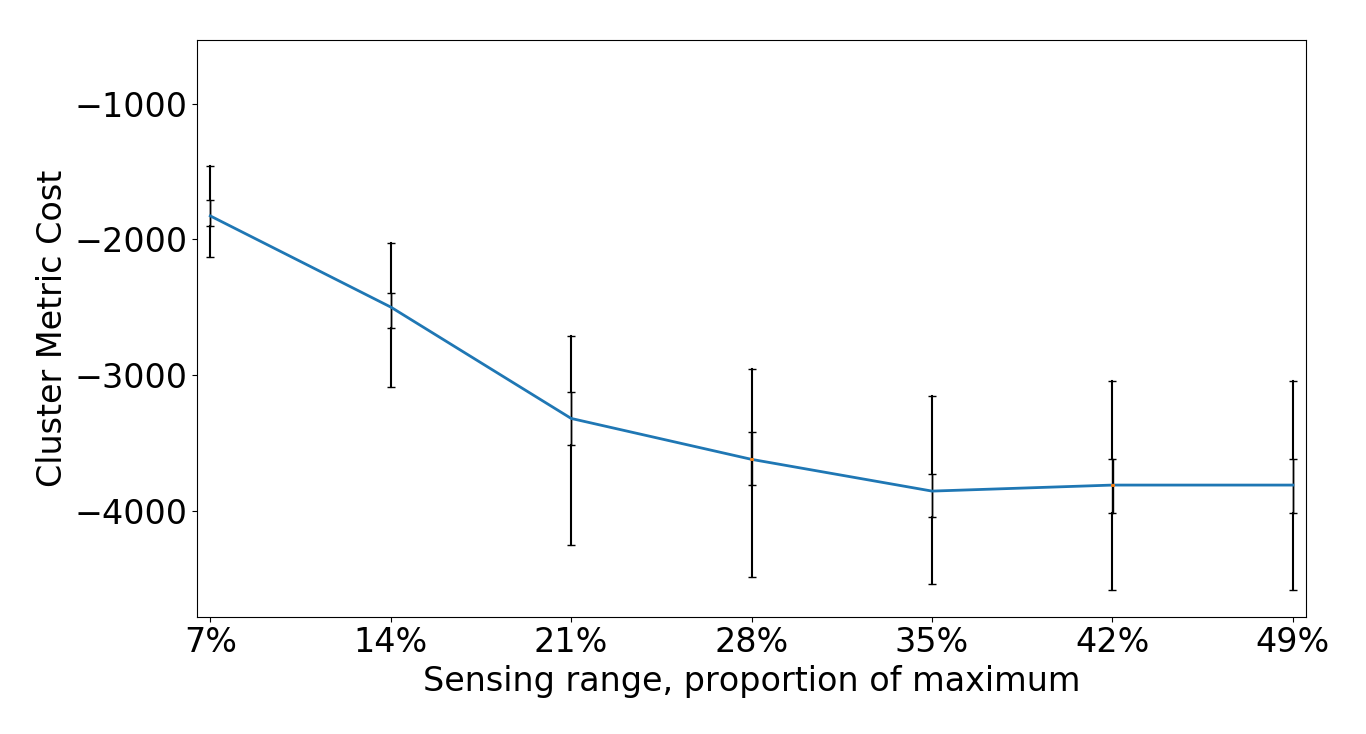
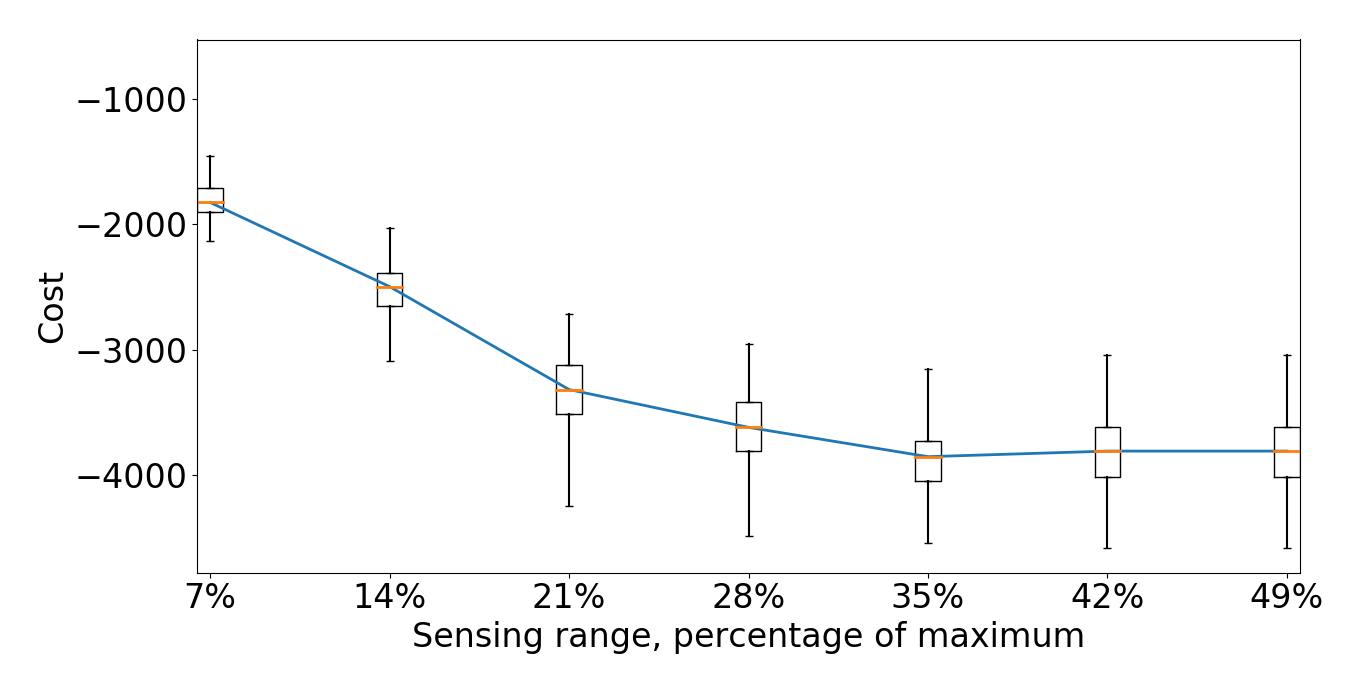
Editing and tweaking
- fix cost equations
 - fix typos
 - improve axes labels and figure placement

diff --git a/segregation_without_computation.tex b/segregation_without_computation.tex
@@ -55,8 +55,8 @@
   that robot is present, whether or not it belongs to the same group as the
   sensing robot; (ii) The robots move according to a differential drive model;
   and (iii) The structure of the control system is purely reactive, and it maps
-  directly the sensor readings to the wheel speeds with no computation beyond a
-  simple `if' statement. We present a thorough analysis of the parameter space
+  directly the sensor readings to the wheel speeds with a simple `if' statement.
+  We present a thorough analysis of the parameter space
   that enables this behavior to emerge, along with conditions for guaranteed
   convergence and a study of non-ideal aspects in the robot design.
 \end{abstract}
@@ -79,12 +79,12 @@ by skill or capability in order to form useful heterogeneous teams.
 Segregation is an example of the broader class of spatially organizing
 behaviors, whose purpose is to impose a structure in the environment (e.g.,
 object clustering~\cite{gauci_clustering_2014}, collective
-construction~\cite{Bolger2010}) or in the distribution of the robot (e.g.,
+construction~\cite{Bolger2010}) or in the distribution of the robots (e.g.,
 aggregation~\cite{shlyakhov_survey_2017}, pattern
 formation~\cite{Pinciroli:DARS2016}, self-assembly~\cite{gross2008self}).
 
 A recent line of research in spatially organizing behaviors focuses the
-\emph{minimal} assumptions a swarm of robot must fulfill in order to perform the
+\emph{minimal} assumptions a swarm of robots must fulfill in order to perform the
 task. Johnson and Brown~\cite{johnson_evolving_2016} and Brown \emph{et
   al.}~\cite{brown_discovery_2018} characterized the set of possible behaviors
 that can be obtained using primordial control strategies based on a simple
@@ -94,7 +94,7 @@ aggregation~\cite{gauci_evolving_2014} and object
 clustering~\cite{gauci_clustering_2014}, while St.-Onge \emph{et
   al.}~\cite{StOnge:IROS2018} studied the emergence of circular
 formations. While more efficient control strategies have been proposed to
-achieve these behaviors, studying the minimal assumptions for their emergence is
+achieve these behaviors, studying the minimal assumptions required for their emergence is
 an important step towards principled `swarm engineering' practices. In addition,
 these minimal behaviors might offer last-resort solutions in case of sensor
 failures in remote environments such as in planetary exploration missions.
@@ -104,7 +104,7 @@ $N$-class segregation to emerge from local, decentralized interactions among
 robots. The term `$N$-class' refers to the creation of $N$ spatially distinct
 groups. We show that, for segregation to emerge, it is sufficient to equip an
 `if/then/else', differential drive robot with a \emph{ternary} sensor. This
-sensor detects the presence of a robot in range; when a robot is detected, the
+sensor detects the presence of a robot in range. When a robot is detected, the
 sensor can distinguish whether it is a \emph{kin}, i.e., it belongs to the same
 group as the sensing robot, or a \emph{non-kin}, i.e., it belongs to a different
 group. When multiple robots are in range, the sensor returns information on the
@@ -112,14 +112,14 @@ closest one of them.
 
 The main contributions of this paper are \emph{(i)} A study of the parameter
 space that enables the emergence of $N$-class segregation; \emph{(ii)} A study
-of why convergence is guaranteed for the best parameter choice found; and
-\emph{(iii)} An analysis of the robustness of the algorithm to non-idealities in
-the robot design.
+of why convergence is guaranteed for the best parameters we found; and
+\emph{(iii)} An analysis of the robustness of the algorithm to noise, scale,
+and other aspects of the robot design.
 
 \section{Related Work}
-Segregation is a common behavior in nature, and it can be observed across
-scales. For example, cell segregation is a basic building block of embryogeneis
-in tissue generation processes~\cite{batlle_molecular_2012,Steinberg1963}; while
+Segregation is a behavior that can be found in nature from the cellular level to the
+colony level. For example, cell segregation is a basic building block of embryogeneis
+in the tissue generation processes~\cite{batlle_molecular_2012,Steinberg1963}; while
 social insects, such as ants, organize their brood into ring-like
 structures~\cite{Franks1992}.
 
@@ -268,18 +268,17 @@ IV\footnote{https://www.k-team.com/khepera-iv}, and the
 Kilobot~\cite{Rubenstein2012}.
 
 \myparagraph{Robot platform}
-For the simulated experiments we opted to use the foot-bot, because of the
-possibility to utilize its range-and-bearing communication system as a base for
-the ternary sensor. The advantage of using the range-and-bearing system is that
-its model is simple and, as a consequence, a large number of simulations could
-be completed in a short time. The range-and-bearing system allows two robots to
-exchange messages when they are in direct line-of-sight; upon receiving a
-message, a robot can also estimate the relative position of the sender. This
-sensor, in principle, receives messages from all the nearby robots. To simulate
-the ternary sensor, our robot controller kept the message of the closest
-robot. The message payload was an integer that encoded the id of the group to
-which the sender belonged. The range-and-bearing sensor is simulated through ray
-casting. This allowed us to assume that the sensor reading is infinitely thin, a
+For the simulated experiments we opted to use the foot-bot.
+To implement the ternary sensor, we used the range-and-bearing communication system
+built into ARGoS. We chose this method because it was computationally more efficient
+than simulating vision or other methods. This allowed us to run faster simulations.
+In practice, any tenary sensor meeting the conditions described earlier will work.
+The range-and-bearing system allows two robots to exchange messages when they are in direct line-of-sight;
+upon receiving a message from a nearby robot, a robot knows the relative position of the sender.
+Our robot controller kept the message of the closest robot.
+The message payload was an integer id of the group to which the sender belonged.
+The range-and-bearing sensor is simulated through ray casting.
+This allowed us to assume that the sensor reading is infinitely thin, a
 choice that simplifies the mathematical analysis presented in
 Sec.~\ref{sec:analysis}. However, in practical applications, the sensor can be
 expected to cast a cone-shaped sensory range with non-zero aperture angle. We
@@ -293,7 +292,8 @@ Sec.~\ref{sec:aperture_angle}.
 In order to exhaustively search the space of possible controllers, we conducted
 a grid search of the 6-dimensional parameter space. Due to limited computational
 resources, we were only able to search with a resolution of $7$ values per
-parameter, which means in total we evaluated $7^6=117,649$ parameter sets. For
+parameter: $[-1, \sfrac{-2}{3}, \sfrac{-1}{3}, 0, \sfrac{1}{3}, \sfrac{2}{3}, 1]$.
+In total we evaluated $7^6=117,649$ parameter sets. For
 each parameter set, we tested 38 different initial configurations, with 100
 simulated seconds for each trial. These initial configurations consisted of
 uniformly random placement, clusters, and lines of robots distributed throughout
@@ -301,47 +301,49 @@ the environment. We chose to include some structured configurations (clusters
 and lines) because we discovered that they affected significantly the
 performance with respect to uniform random configurations. Hence, by explicitly
 evaluating diverse initial configurations, we could better estimate the best
-parameter values in the general case.
+parameter values in the general case. Examples of these starting configurations
+can be seen in our supplementary videos:
+\href{https://www.youtube.com/playlist?list=PL9HqYJ1IkIKVX9EsT5BY9LnBsBPTjc5bB}{https://goo.gl/z8UAuB}.
 
 \myparagraph{Clusters}
-To define our cost function, we first establish the notion of
-`cluster'. Denoting with $r$ the radius of the body of a robot, and defining
-$\vec{p}_i(t) = [x_i(t)\;y_i(t)]$, we consider any two robots to be
-\emph{connected} if
+To define our cost function, we first establish the notion of a cluster.
+A cluster can be intuitively defined as an island of connected kin robots.
+Formally, a cluster is a set of kin robots which are \emph{connected}.
+Denoting with $r$ the radius of the body of a robot, and defining
+$\vec{p}_i(t) = [x_i(t)\;y_i(t)]$ as the $x$ and $y$ coordinates of the robot at time $t$, we consider any two kin robots to be
+connected if
 $$
 \lVert\vec{p}_i(t) - \vec{p}_j(t)\rVert \le 2r + \epsilon \qquad (i \ne j, \epsilon \in \mathbb{R}^+).
 $$
-In our experiments, we set $\epsilon = \SI{5}{\centi\meter}$.  A
-\emph{cluster} can be intuitively defined as an `island' of connected
-robots, and it can be found with a depth-first search across the
-robots. Since we are interested in segregating the robots in $N$
-classes, the final result of a trial is expected to be a set of $N$
-distinct clusters \emph{composed of kin robots}. Hence, we define a
-cluster as an island of connected kin robots.
+In our experiments, we set $\epsilon = \SI{5}{\centi\meter}$.
+We find clusters by first constructing an adjacency matrix and then performing a depth-first search.
+Since we are interested in segregating the robots in $N$ classes,
+the final result of a trial is expected to be a set of $N$ distinct clusters composed of kin robots.
 
 \myparagraph{Cost function}
 To measure the difference between the ideal, perfectly segregated result and any
 configuration achieved by the robots over time, we first calculate, for every
-class $i$, the largest cluster $c_i(t)$ formed by robots of class $i$.  Since,
+class $i$, the number of robots in the largest cluster $c_i(t)$ formed by robots of class $i$.  Since,
 in principle, different classes might involve different numbers of robots, in
 our cost function we employ the ratio
 $$
-\gamma_i(t) = \frac{c_i(t)}{C_i}
+\gamma_i(t) = -\frac{c_i(t)}{C_i}
 $$
-where $C_i$ is the number of robots that belongs to class $i$. Our cost function
-is then
+This ratio should be maximized, so the negative sign assigns larger clusters a lower, more negative, cost.
+Here $C_i$ is the number of robots that belongs to class $i$. At each time step, the cost is
+$$
+\gamma(t) = \frac{1}{N}\sum_{i=1}^N\gamma_i(t)
+$$
+Our complete cost function is then
 \begin{equation}
   \label{eq:cost_function}
-  c_{\text{total}} =  \frac{1}{n}\sum_{i=1}^N\sum_{t=0}^{T-1} -t \gamma_i(t)
+  c_{\text{total}} =  \sum_{t=0}^{T-1} t\gamma(t)
 \end{equation}
-in which we denote the total trial time (100 seconds) with $T$. Since
-$\gamma_i(t)$ is lowest when no robots in a specific class are connected and $1$
-when they are all connected, the negative sign assigns larger clusters a lower
-cost. The effect of multiplying $\gamma_i(t)$ by $t$ is to highlight the
+in which we denote the total trial time (100 seconds) with $T$. The effect of multiplying $\gamma_i(t)$ by $t$ is to highlight the
 emergence of clusters as the trial time proceeds: we cannot expect large
 clusters to be present at the beginning of a trial, but good parameter settings
 should grow (and maintain) clusters over time. In our experiments, we found that
-$c_{\text{total}}(t)$ correctly assigns cost in most scenarios, thus fitting
+$c_{\text{total}}$ correctly assigns cost in most scenarios, thus fitting
 well our analysis purposes. However, this cost function considers a straight
 line of robots to be a cluster, and as such it might not be ideal for scenarios
 in which the clusters are required to be tight.
@@ -381,7 +383,7 @@ bottom left). These plots also convey the presence of sharp discontinuities
 where performance changes dramatically.
 
 \myparagraph{The emergent behavior}
-After running the grid search, the parameters with the lowest cost across all 38
+After running the grid search, the parameters with the lowest mean cost across all 38
 configurations was
 \begin{equation}
 \label{eq:controller}
@@ -404,15 +406,17 @@ in~\cite{StOnge:IROS2018}, when multiple robots execute this zig-zag behavior,
 spinning rings are formed. The remarkable aspect, in our case, is that spinning
 rings of \emph{kin} robots emerge, eventually segregating the swarm in
 homogeneous groups. An example of this phenomenon as observed in simulated
-experiments is reported in Fig.~\ref{fig:rings}. We also noted that, rarely, the
+experiments is reported in Fig.~\ref{fig:rings}. We also noted that occasionally the
 robots form spinning spiral shapes, which can also be seen in
 Fig.~\ref{fig:rings}.
 
 \myparagraph{Interesting phenomena}
 It is important to note that, although we originally hoped that segregated
-clusters would be tightly packed, in our grid search we never found any
-parameter setting that was capable of creating tight clusters. In addition, we
-observed that the spinning rings formed by the robots tended to expand over
+clusters would be tightly packed, none of the top scoring parameters according to our cost
+function form tightly packed clusters. There \emph{are} parameters
+which acheive tightly packed segregation, but they do so aggonizingly slowly,
+and therefore our cost function correctly penalized them heavily for being too slow
+to be useful. In addition, we observed that the spinning rings formed by the robots tended to expand over
 time, disband into smaller structures, and eventually reappear. In addition, if
 a ring is disturbed by non-kin robots passing through it, the ring is disrupted
 but it eventually reforms. The growing and self-repairing dynamics is compatible
@@ -434,7 +438,7 @@ particular, we discuss the conditions under which segregation is guaranteed.
 
 In the proofs, we employ the well-known equations that govern the instantaneous
 radius of curvature $R$ and rotation speed $\omega$ of the path followed a
-differential-drive robot~\cite{Dudek2010}:
+differential-drive robot with $l$ denoting the interwheel distance~\cite{Dudek2010}:
 \begin{equation}
   \label{eq:Ricc}
   \begin{aligned}
@@ -516,16 +520,16 @@ differential-drive robot~\cite{Dudek2010}:
   towards $j$, its trajectory path must be an arc that does not move past a
   limit point $\vec{q}_i$ because, beyond this point, the distance between $i$
   and $j$ would increase. We can express this condition as
-  $|\omega|\Delta t\le \bar{\theta}$, where $\bar{\theta}$ is the angle of the arc
-  connecting $\vec{p}_i$ and $\vec{q}_i$.
+  $$|\omega|\Delta t\le \bar{\theta}$$
+  where $\bar{\theta}$ is the angle of the arc connecting $\vec{p}_i$ and $\vec{q}_i$.
 
   Reasoning on the triangle formed by $\vec{p}_i$, $\vec{p}_j$ and the $\ICC$,
   we can calculate
   \begin{equation}
     \label{eq:theta2}
-    \frac{\bar{\theta}}{2} = \tan^{-1}\frac{D}{|R|}
+    \bar{\theta} = 2\tan^{-1}\frac{D}{|R|}
   \end{equation}
-  where we defined $D = \lVert\vec{p}_i - \vec{p}_j\rVert$. The rhs of this
+  where we defined $D = \lVert\vec{p}_i - \vec{p}_j\rVert$. The right hand side of this
   inequality monotonically increases with $D$, hence to find the most strict
   condition we need to consider the smallest value of $D$ possible. This value
   corresponds to the situation in which $i$ and $j$ are tangent to each other;
@@ -571,7 +575,7 @@ differential-drive robot~\cite{Dudek2010}:
 
 \begin{figure}[t]
   \centering
-  \includegraphics{condition}
+  \includegraphics[width=0.8\linewidth]{condition}
   \caption{A graphical proof that \eqref{eq:movetonone} is the strictest
     condition. The graph relates the length of the interwheel distance to the
     value of the conditions, for a constant value of the robot body radius.}.
@@ -584,7 +588,7 @@ differential-drive robot~\cite{Dudek2010}:
   Because of Theorem 1, a robot that has not detected a kin rotates clockwise
   until it finds one. After this, the robot turns counterclockwise and, if
   \eqref{eq:movetokin} holds, it steps closer to the kin. When the robot cannot
-  detect the kin anymore it turns counterclockwise. If both
+  detect the kin anymore it turns clockwise. If both
   \eqref{eq:movetonone} and \eqref{eq:movetononkin} hold, then it is guaranteed
   robot $i$ moves closer to the kin. Eventually robot $i$ will see the kin
   again, and the cycle continues. This reasoning can be repeated for any pair of
@@ -637,16 +641,16 @@ conditions of each experiment.
 
 \begin{figure}[t]
   \centering
-  \includegraphics[width=1\linewidth]{./images/num_classes_vs_cost_100_robots.png}
-  \caption{The average cost with 100 robots divided into $N$ classes.}
-  \label{fig:num_classes_100}
+  \includegraphics[width=1\linewidth]{./images/num_classes_vs_cost_10_per_class.png}
+  \caption{The average cost over 100 trials with $N$ classes , 10 robots per class.}
+  \label{fig:num_classes_10}
 \end{figure}
 
 \begin{figure}[t]
   \centering
-  \includegraphics[width=1\linewidth]{./images/num_classes_vs_cost_10_per_class.png}
-  \caption{The average cost with $N$ classes, 10 robots per class.}
-  \label{fig:num_classes_10}
+  \includegraphics[width=1\linewidth]{./images/num_classes_vs_cost_100_robots.png}
+  \caption{The average cost over 100 trials with 100 robots divided into $N$ classes.}
+  \label{fig:num_classes_100}
 \end{figure}
 
 \subsection{The Effect of Implementation Details of the sensor} \label{section:sensor_impl}
@@ -684,8 +688,7 @@ by our cost function.
 
 \begin{figure}[t]
   \centering
-  \includegraphics[width=1\linewidth]{./images/beam_angle.png}
-  \begin{tikzpicture}
+  \begin{tikzpicture}[scale=0.75]
     \draw (0,0) circle (0.75);
     \draw (0,0) -- (5,0.7);
     \draw[dashed] (0,0) -- (5,0);
@@ -693,6 +696,7 @@ by our cost function.
     \draw (4,0) arc [radius=4, start angle=0, end angle=8];
     \node at (4.25,0.25) {$\beta$};
   \end{tikzpicture}
+  \includegraphics[width=1\linewidth]{./images/beam_angle.png}
   \caption{A \ang{15} degree half beam angle is best for segregation. Lower cost is better.}
   \label{fig:beam_angle}
 \end{figure}
